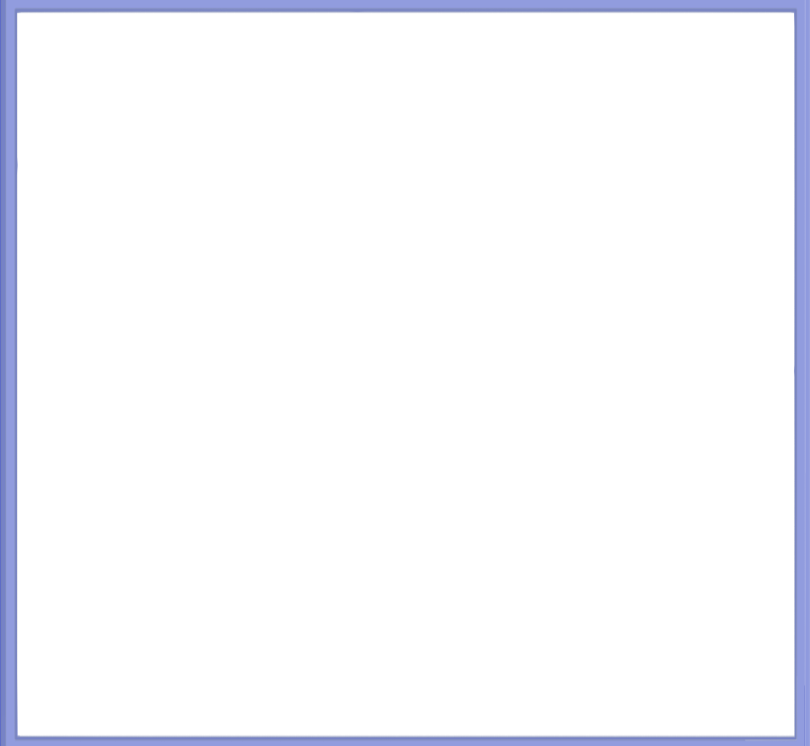
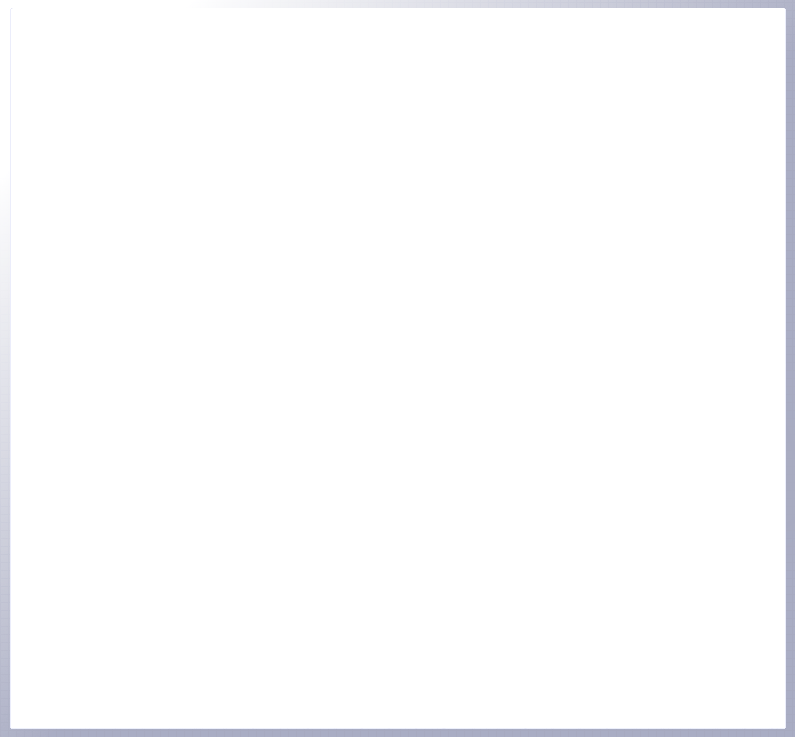
5/6 progress before class

Changed region(s): [[0.0, 0.0, 1.0, 1.0]]

diff --git a/css/main.scss b/css/main.scss
@@ -31,8 +31,8 @@ html {
     background-color: var(--white);
     color: var(--primary-color-bright);
     background-size: 330px;
-    padding-left: 66px;
-    transform: scaleY(40%);
+    padding-left: 25px;
+    transform: scaleY(70%);
     padding-right: 30px;
     box-shadow: 3px 8px 13px 1px #0c1659;
     background-image: url(../Icons/haresstampblue.png);
@@ -49,21 +49,24 @@ html {
      list-style: none;
      font-size: 30px;
       justify-content: center;
-    background-color: var(--footer-color);
+    background-color: var(--primary-color-light);
     background-size: 1310px;
-    background-image: url(../Icons/pots.png);
+    background-image: url(../Icons/pots.png), url(../Icons/gridbackground.png);
     background-repeat: no-repeat;
-    background-position: 450px;
+    background-size: 100%;
+    background-position: 0px -20px;
     color: var(--white);
     width: 100%;
     gap: 10px;
     padding: 10px;
     
+    
     }
 
 body{
-    background-color: var(--primary-color);
-    color: var(--primary-color-dark);
+
+    background-image: url(../Icons/gridbackground.png);
+    background-size: 100% 100%;
     font-family: normal;
 }
 .container{
@@ -83,7 +86,10 @@ section{
 .tools-board{
     width: 210px;
     background: var(--primary-color-dark);
-    background-image: linear-gradient(to bottom, var(--primary-color-light), var(--footer-color));
+    background-image: linear-gradient(to bottom, var(--primary-color-bright), #5863a8);
+    border: 10px solid var(--black);
+    border-image: url(../Icons/canvasbox.png) 1% round;
+    box-shadow: var(--primary-color-bright) 0px 4px 30px -12px inset, var(--primary-color-bright) 0px 12px 36px -18px inset;
 }
 
 .row .options{
@@ -92,7 +98,7 @@ section{
     display: grid;
     grid-template-columns: 1fr 1fr;
     padding: 20px;
-    margin: 0;
+    margin: 0px;
 }
 .row .options .option{
     display: flex;
@@ -112,8 +118,11 @@ section{
 }
 .option #size-slider{
     position: relative;
-     box-shadow: 2px 2px 2px 1px rgb(12 22 89 / 0.3);
-     margin-top: -40px;
+     margin-top: -10px;
+     accent-color: var(--white);
+     border: 12px solid var(--black);
+    border-image: url(../Icons/canvasbox.png) 1% round;
+    
 }
 
 .colors .option {
@@ -121,10 +130,9 @@ section{
     background-size: 100%;
     background-position: center;
     background-repeat: no-repeat;
-    box-shadow: 2px 2px 2px 1px rgb(12 22 89 / 0.3);
     width: 100%;
     aspect-ratio: 1/1;
-    margin: 0;
+    margin: 1px;
     position: relative;
    
 }
@@ -200,6 +208,7 @@ border-color: #111111;
     .clear-canvas {
         color: var(--black);
         border: 1px solid var(--black);
+        margin-bottom: 20px;
 
         &:hover{
             background-color: var(--off-white);
@@ -211,7 +220,8 @@ border-color: #111111;
 
 .sidemenu {
     background: var(--primary-color-dark);
-    background-image: linear-gradient(to bottom, var(--primary-color-light), var(--footer-color));
+     background-image: linear-gradient(to bottom, var(--primary-color-bright), #5863a8);
+     box-shadow: var(--primary-color-bright) 0px 4px 30px -12px inset, var(--primary-color-bright) 0px 12px 36px -18px inset;
    display: flex;
   flex-direction: row;
    width: 210px;
@@ -220,22 +230,30 @@ border-color: #111111;
     max-width: 1050px;
     display: grid;
     grid-template-columns: 1fr 1fr;
+    border: 10px solid var(--black);
+    border-image: url(../Icons/canvasbox.png) 1% round;
+    
 }
 
 .drawing-board{
+    margin-left: 10px;
     flex: 1;
     position: relative;
+     border: 10px solid var(--black);
+    border-image: url(../Icons/canvasbox.png) 1% round;
+    background-image: linear-gradient(to bottom, var(--primary-color-bright), #5863a8);
+    box-shadow: var(--black) 0px 4px 30px -12px inset, var(--black) 0px 12px 36px -18px inset;
 
     p {
-        font-size: 180px;
+        font-size: 160px;
         color: var(--white);
         transform: scaleY(80%);
-        text-shadow: 4px 4px 3px var(--black);
+        text-shadow: 4px 4px 0px var(--primary-color-bright);
         text-align: start;
         pointer-events: none;
         position: absolute;
-        top: -30px;
-        left: 4px;
+        top: -20px;
+        left: 10px;
         width: 70%;
         z-index: 0;
         text-align: center;
@@ -246,12 +264,12 @@ border-color: #111111;
         font-size: 50px;
         color: var(--white);
         transform: scaleY(80%);
-        text-shadow: 4px 4px 3px var(--black);
-        text-align: end;
+        text-shadow: 4px 4px 0px var(--primary-color-bright);
+        text-align: start;
         pointer-events: none;
         position: absolute;
         top: 11%;
-        left: 59%;
+        left: 54%;
         width: 70%;
         z-index: 0;
         text-align: center;
@@ -262,6 +280,7 @@ border-color: #111111;
     canvas{
         height: 100%;
         width: 100%;
+        
 
     }
 }

diff --git a/css/main.css b/css/main.css
@@ -28,8 +28,8 @@ html {
   background-color: var(--white);
   color: var(--primary-color-bright);
   background-size: 330px;
-  padding-left: 66px;
-  transform: scaleY(40%);
+  padding-left: 25px;
+  transform: scaleY(70%);
   padding-right: 30px;
   box-shadow: 3px 8px 13px 1px #0c1659;
   background-image: url(../Icons/haresstampblue.png);
@@ -45,11 +45,12 @@ html {
   list-style: none;
   font-size: 30px;
   justify-content: center;
-  background-color: var(--footer-color);
+  background-color: var(--primary-color-light);
   background-size: 1310px;
-  background-image: url(../Icons/pots.png);
+  background-image: url(../Icons/pots.png), url(../Icons/gridbackground.png);
   background-repeat: no-repeat;
-  background-position: 450px;
+  background-size: 100%;
+  background-position: 0px -20px;
   color: var(--white);
   width: 100%;
   gap: 10px;
@@ -57,8 +58,8 @@ html {
 }
 
 body {
-  background-color: var(--primary-color);
-  color: var(--primary-color-dark);
+  background-image: url(../Icons/gridbackground.png);
+  background-size: 100% 100%;
   font-family: normal;
 }
 
@@ -80,7 +81,11 @@ section {
 .tools-board {
   width: 210px;
   background: var(--primary-color-dark);
-  background-image: linear-gradient(to bottom, var(--primary-color-light), var(--footer-color));
+  background-image: linear-gradient(to bottom, var(--primary-color-bright), #5863a8);
+  border: 10px solid var(--black);
+  -o-border-image: url(../Icons/canvasbox.png) 1% round;
+     border-image: url(../Icons/canvasbox.png) 1% round;
+  box-shadow: var(--primary-color-bright) 0px 4px 30px -12px inset, var(--primary-color-bright) 0px 12px 36px -18px inset;
 }
 
 .row .options {
@@ -88,7 +93,7 @@ section {
   display: grid;
   grid-template-columns: 1fr 1fr;
   padding: 20px;
-  margin: 0;
+  margin: 0px;
 }
 
 .row .options .option {
@@ -113,8 +118,11 @@ section {
 
 .option #size-slider {
   position: relative;
-  box-shadow: 2px 2px 2px 1px rgba(12, 22, 89, 0.3);
-  margin-top: -40px;
+  margin-top: -10px;
+  accent-color: var(--white);
+  border: 12px solid var(--black);
+  -o-border-image: url(../Icons/canvasbox.png) 1% round;
+     border-image: url(../Icons/canvasbox.png) 1% round;
 }
 
 .colors .option {
@@ -122,10 +130,9 @@ section {
   background-size: 100%;
   background-position: center;
   background-repeat: no-repeat;
-  box-shadow: 2px 2px 2px 1px rgba(12, 22, 89, 0.3);
   width: 100%;
   aspect-ratio: 1/1;
-  margin: 0;
+  margin: 1px;
   position: relative;
 }
 
@@ -213,6 +220,7 @@ section {
 .buttons .clear-canvas {
   color: var(--black);
   border: 1px solid var(--black);
+  margin-bottom: 20px;
 }
 .buttons .clear-canvas:hover {
   background-color: var(--off-white);
@@ -222,7 +230,8 @@ section {
 
 .sidemenu {
   background: var(--primary-color-dark);
-  background-image: linear-gradient(to bottom, var(--primary-color-light), var(--footer-color));
+  background-image: linear-gradient(to bottom, var(--primary-color-bright), #5863a8);
+  box-shadow: var(--primary-color-bright) 0px 4px 30px -12px inset, var(--primary-color-bright) 0px 12px 36px -18px inset;
   display: flex;
   flex-direction: row;
   width: 210px;
@@ -231,22 +240,31 @@ section {
   max-width: 1050px;
   display: grid;
   grid-template-columns: 1fr 1fr;
+  border: 10px solid var(--black);
+  -o-border-image: url(../Icons/canvasbox.png) 1% round;
+     border-image: url(../Icons/canvasbox.png) 1% round;
 }
 
 .drawing-board {
+  margin-left: 10px;
   flex: 1;
   position: relative;
+  border: 10px solid var(--black);
+  -o-border-image: url(../Icons/canvasbox.png) 1% round;
+     border-image: url(../Icons/canvasbox.png) 1% round;
+  background-image: linear-gradient(to bottom, var(--primary-color-bright), #5863a8);
+  box-shadow: var(--black) 0px 4px 30px -12px inset, var(--black) 0px 12px 36px -18px inset;
 }
 .drawing-board p {
-  font-size: 180px;
+  font-size: 160px;
   color: var(--white);
   transform: scaleY(80%);
-  text-shadow: 4px 4px 3px var(--black);
+  text-shadow: 4px 4px 0px var(--primary-color-bright);
   text-align: start;
   pointer-events: none;
   position: absolute;
-  top: -30px;
-  left: 4px;
+  top: -20px;
+  left: 10px;
   width: 70%;
   z-index: 0;
   text-align: center;
@@ -257,12 +275,12 @@ section {
   font-size: 50px;
   color: var(--white);
   transform: scaleY(80%);
-  text-shadow: 4px 4px 3px var(--black);
-  text-align: end;
+  text-shadow: 4px 4px 0px var(--primary-color-bright);
+  text-align: start;
   pointer-events: none;
   position: absolute;
   top: 11%;
-  left: 59%;
+  left: 54%;
   width: 70%;
   z-index: 0;
   text-align: center;